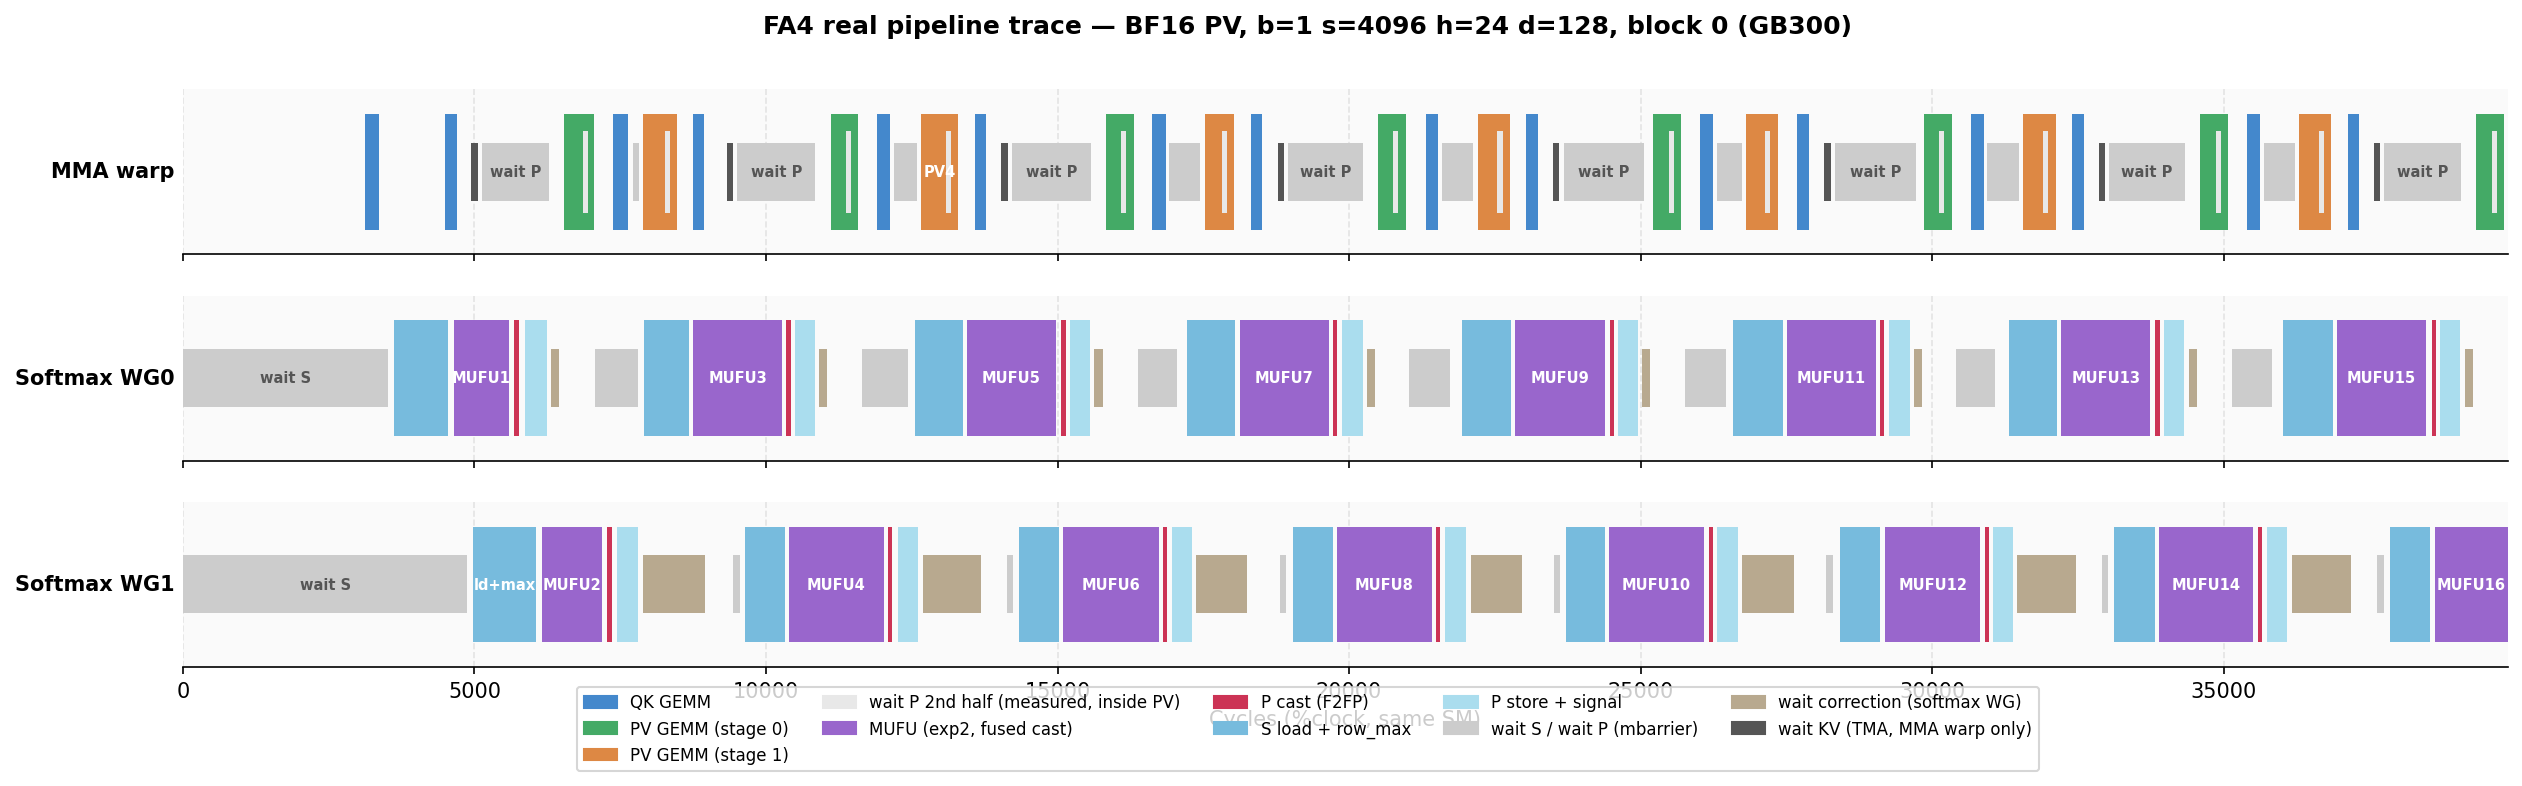
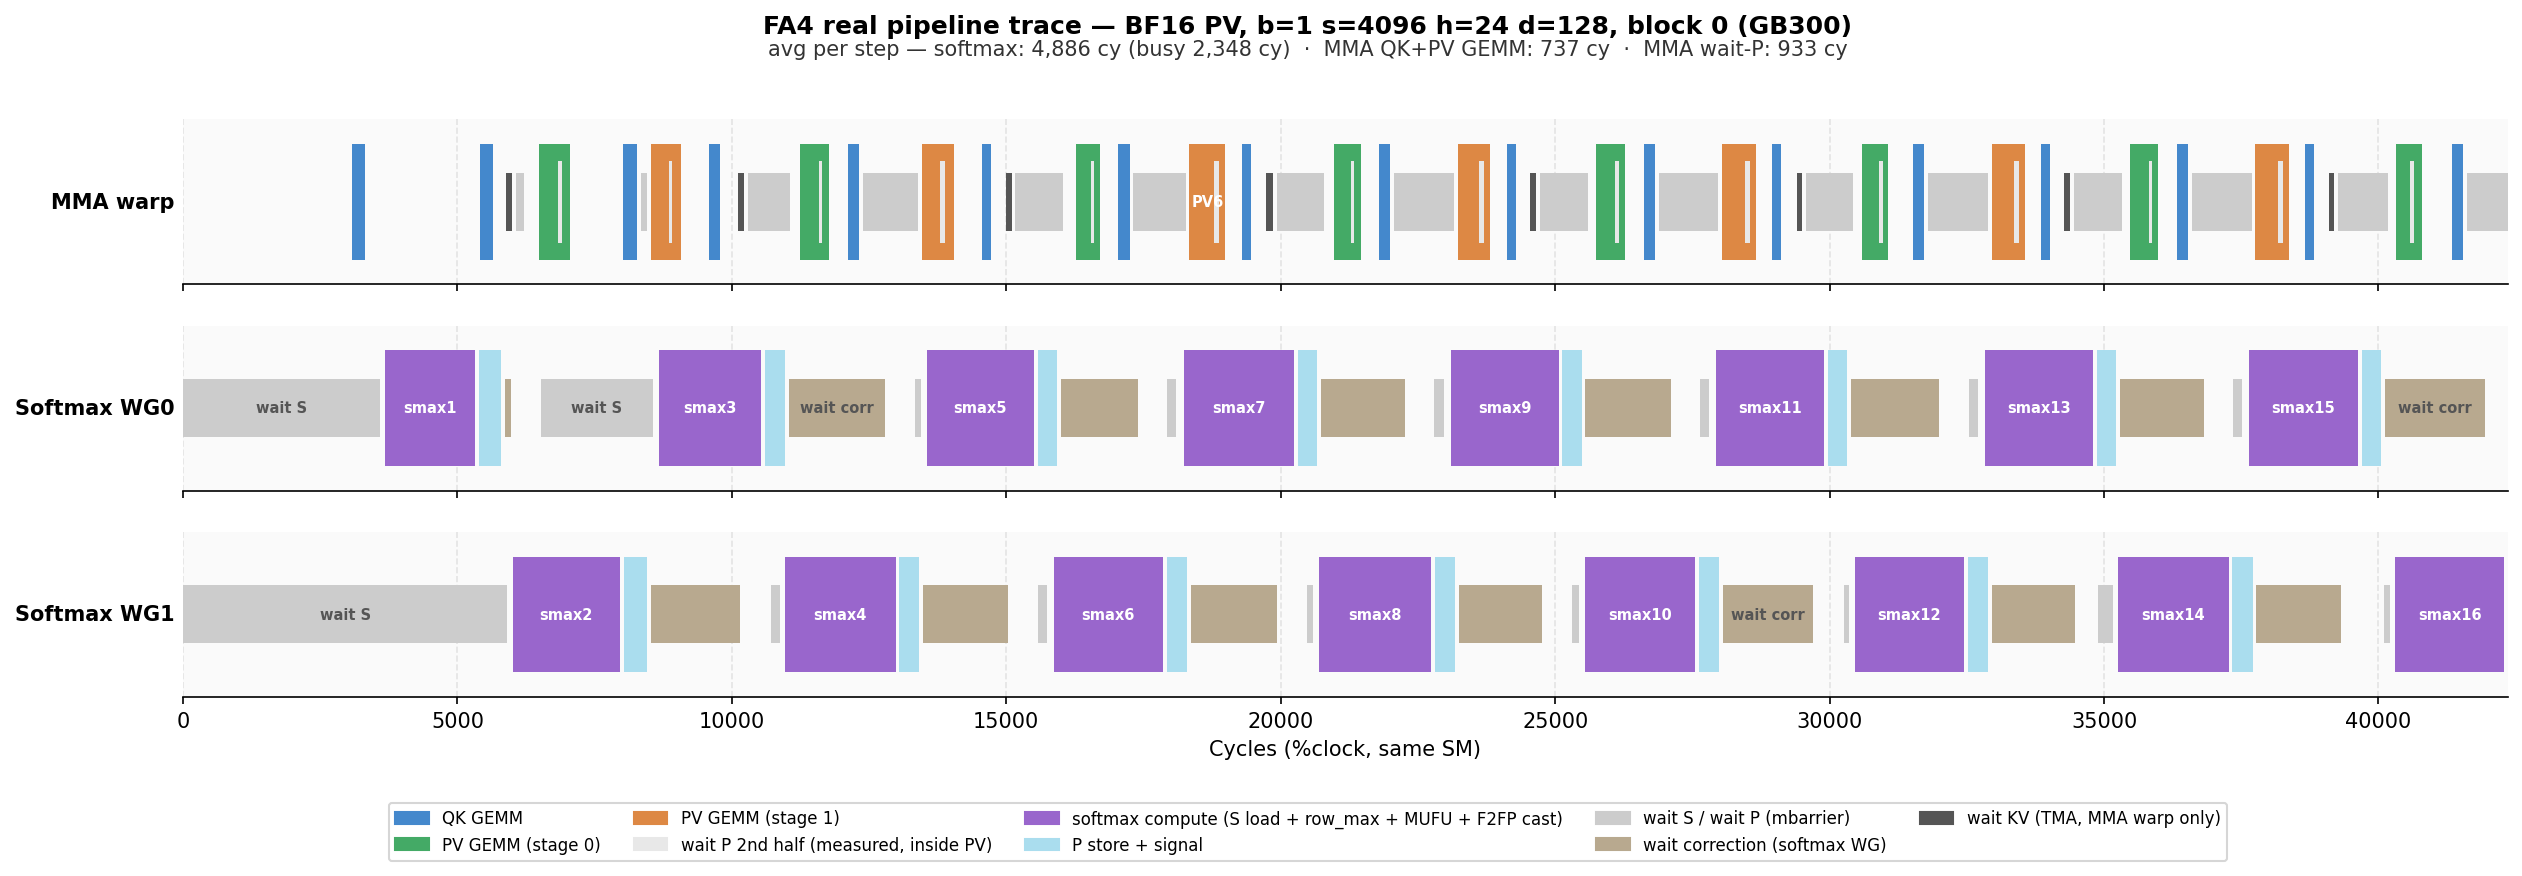
feat: coarse low-perturbation trace mode + avg step-cycles line in figures
The detailed per-phase trace events sit inside the softmax compute stream;
their side-effecting %clock asm blocks ptxas interleaving and inflates
spans ~15% (FP8 window 472K -> 388K cycles coarse). Coarse mode (now the
default) records only at wait/store boundaries that are already
side-effect ordered, drawing one combined softmax-compute span per step;
FA4_PROFILE_DETAIL=1 restores the per-phase breakdown. Cache key includes
the detail flag.

Trace figures get a subtitle line: avg cycles per softmax step (period +
busy) and per MMA QK+PV GEMM pair, plus MMA wait-P. Measured coarse at
s=4096: softmax 4,855/4,001/5,389 cy per step (bf16/fp8/fp4), MMA QK+PV
732/639/622 cy.

diff --git a/flash_attn/cute/flash_fwd_sm100_fp4.py b/flash_attn/cute/flash_fwd_sm100_fp4.py
@@ -308,6 +308,14 @@ class FlashAttentionForwardSm100:
         # P_full signals as early as possible.
         self.fp8_pv_pack_store_pipeline = os.getenv("FA4_FP8_PV_PACK_STORE_PIPELINE", "0") == "1"
         self.fp4_pv_quant_store_pipeline = os.getenv("FA4_FP4_PV_QUANT_STORE_PIPELINE", "0") == "1"
+        # Pipeline-trace granularity (FA4_PROFILE_PIPELINE=1). Coarse (default)
+        # records only at wait/store boundaries that are already side-effect
+        # ordered, so the softmax compute stream contains no timestamps and
+        # ptxas keeps full scheduling freedom — avoiding the artifact where the
+        # profiler's %clock asm acts as a barrier and inflates phase spans.
+        # FA4_PROFILE_DETAIL=1 restores the per-phase (load/exp/quant) events.
+        self.prof_detail = os.getenv("FA4_PROFILE_DETAIL", "0") == "1"
+        self.prof_events_per_step = 12 if self.prof_detail else 8
         self.mma_inst_bits_k = 256
         if self.sf_vec_size == 16:
             # NVFP4 / MXF4NVF4: 256-bit operand tile covers 64 logical K elements.
@@ -3305,7 +3313,7 @@ class FlashAttentionForwardSm100:
         tCtSFP: Optional[cute.Tensor] = None,
         sSFP: Optional[cute.Tensor] = None,
         prof=None,  # (buf, bg_index, stride, tag_base, pred) trace state or None
-        prof_iter=0,  # softmax_step call count (slot base = prof_iter * 12)
+        prof_iter=0,  # softmax_step call count (slot base = prof_iter * events/step)
     ) -> Tuple[cute.Int32, cute.Int32, cute.Int32]:
         """Perform a single step of the softmax computation on a block of attention scores.
 
@@ -3329,16 +3337,17 @@ class FlashAttentionForwardSm100:
         # P size when in FP32
         tScP = cute.composition(tScS, cute.make_layout((self.m_block_size, tilePlikeFP32)))
 
-        # Trace state: 12 events per softmax_step in every PV-mode branch.
+        # Trace state: fixed number of events per softmax_step in every
+        # PV-mode branch (8 coarse / 12 with FA4_PROFILE_DETAIL=1).
         if const_expr(prof is not None):
             prof_buf, prof_bg, prof_stride, prof_tag, prof_pred = prof
-            prof_k = prof_iter * 12
+            prof_k = prof_iter * self.prof_events_per_step
             prof_k = fa4_prof.prof_record(prof_buf, prof_bg, prof_stride, prof_tag, prof_k, fa4_prof.EVT_SOFTMAX_WAIT_S, fa4_prof.EVENT_BEGIN, prof_pred)
         # Wait for Si
         cute.arch.mbarrier_wait(mbar_ptr + self.mbar_S_full_offset + stage, mma_si_consumer_phase)
         if const_expr(prof is not None):
             prof_k = fa4_prof.prof_record(prof_buf, prof_bg, prof_stride, prof_tag, prof_k, fa4_prof.EVT_SOFTMAX_WAIT_S, fa4_prof.EVENT_END, prof_pred)
-            prof_k = fa4_prof.prof_record(prof_buf, prof_bg, prof_stride, prof_tag, prof_k, fa4_prof.EVT_SOFTMAX_ROWMAX, fa4_prof.EVENT_BEGIN, prof_pred)
+            prof_k = fa4_prof.prof_record(prof_buf, prof_bg, prof_stride, prof_tag, prof_k, fa4_prof.EVT_SOFTMAX_ROWMAX if self.prof_detail else fa4_prof.EVT_SOFTMAX_EXP, fa4_prof.EVENT_BEGIN, prof_pred)
         tSrS_t2r = cute.make_fragment(thr_tmem_load.partition_D(tScS).shape, self.qk_acc_dtype)
         cute.copy(thr_tmem_load, tStS_t2r, tSrS_t2r)
         
@@ -3379,7 +3388,7 @@ class FlashAttentionForwardSm100:
         cute.arch.mbarrier_arrive(mbar_ptr + self.mbar_softmax_corr_full_offset + stage)
 
         softmax.scale_subtract_rowmax(tSrS_t2r, row_max)
-        if const_expr(prof is not None):
+        if const_expr(prof is not None and self.prof_detail):
             prof_k = fa4_prof.prof_record(prof_buf, prof_bg, prof_stride, prof_tag, prof_k, fa4_prof.EVT_SOFTMAX_ROWMAX, fa4_prof.EVENT_END, prof_pred)
         # Sequence barrier wait
         if const_expr(self.s0_s1_barrier):
@@ -3399,7 +3408,7 @@ class FlashAttentionForwardSm100:
 
 
         if const_expr(self.quant_pv):
-            if const_expr(prof is not None):
+            if const_expr(prof is not None and self.prof_detail):
                 prof_k = fa4_prof.prof_record(prof_buf, prof_bg, prof_stride, prof_tag, prof_k, fa4_prof.EVT_SOFTMAX_EXP, fa4_prof.EVENT_BEGIN, prof_pred)
             # Exp2 with softmax scale and sp1 scaling
             softmax.apply_exp2_convert(
@@ -3410,7 +3419,7 @@ class FlashAttentionForwardSm100:
             )
             # update_row_sum BEFORE scale_groupwise so it uses original P values
             softmax.update_row_sum(tSrS_t2r.load(), acc_scale, is_first)
-            if const_expr(prof is not None):
+            if const_expr(prof is not None and self.prof_detail):
                 prof_k = fa4_prof.prof_record(prof_buf, prof_bg, prof_stride, prof_tag, prof_k, fa4_prof.EVT_SOFTMAX_EXP, fa4_prof.EVENT_END, prof_pred)
                 prof_k = fa4_prof.prof_record(prof_buf, prof_bg, prof_stride, prof_tag, prof_k, fa4_prof.EVT_SOFTMAX_QUANT, fa4_prof.EVENT_BEGIN, prof_pred)
             if const_expr(self.fp4_pv_quant_store_pipeline and sSFP is not None):
@@ -3452,9 +3461,9 @@ class FlashAttentionForwardSm100:
                 tSrPSF_2d = cute.logical_divide(tSrPSF, cute.make_layout(k_inner))
                 cute.autovec_copy(tSrPSF_2d, sSFP_thread)
             if const_expr(prof is not None):
-                prof_k = fa4_prof.prof_record(prof_buf, prof_bg, prof_stride, prof_tag, prof_k, fa4_prof.EVT_SOFTMAX_QUANT, fa4_prof.EVENT_END, prof_pred)
+                prof_k = fa4_prof.prof_record(prof_buf, prof_bg, prof_stride, prof_tag, prof_k, fa4_prof.EVT_SOFTMAX_QUANT if self.prof_detail else fa4_prof.EVT_SOFTMAX_EXP, fa4_prof.EVENT_END, prof_pred)
         else:
-            if const_expr(prof is not None):
+            if const_expr(prof is not None and self.prof_detail):
                 prof_k = fa4_prof.prof_record(prof_buf, prof_bg, prof_stride, prof_tag, prof_k, fa4_prof.EVT_SOFTMAX_EXP, fa4_prof.EVENT_BEGIN, prof_pred)
             # softmax.scale_apply_exp2_convert(tSrS_t2r, row_max, tSrP_r2t)
             if const_expr(pure_fp8_pv and self.v_dtype == Float8E4M3FN and self.fp8_pv_use_explicit_pack):
@@ -3468,7 +3477,7 @@ class FlashAttentionForwardSm100:
                         e2e=self.force_e2e,
                         e2e_freq=self.e2e_freq,
                     )
-                    if const_expr(prof is not None):
+                    if const_expr(prof is not None and self.prof_detail):
                         prof_k = fa4_prof.prof_record(prof_buf, prof_bg, prof_stride, prof_tag, prof_k, fa4_prof.EVT_SOFTMAX_EXP, fa4_prof.EVENT_END, prof_pred)
                         prof_k = fa4_prof.prof_record(prof_buf, prof_bg, prof_stride, prof_tag, prof_k, fa4_prof.EVT_SOFTMAX_QUANT, fa4_prof.EVENT_BEGIN, prof_pred)
                 else:
@@ -3484,7 +3493,7 @@ class FlashAttentionForwardSm100:
                         )
                     # else: exp2, F2FP pack and TMEM stores are all
                     # software-pipelined per chunk in _pack_fp8_store_pipelined.
-                    if const_expr(prof is not None):
+                    if const_expr(prof is not None and self.prof_detail):
                         prof_k = fa4_prof.prof_record(prof_buf, prof_bg, prof_stride, prof_tag, prof_k, fa4_prof.EVT_SOFTMAX_EXP, fa4_prof.EVENT_END, prof_pred)
                         prof_k = fa4_prof.prof_record(prof_buf, prof_bg, prof_stride, prof_tag, prof_k, fa4_prof.EVT_SOFTMAX_QUANT, fa4_prof.EVENT_BEGIN, prof_pred)
                     if const_expr(not fp8_pipe_active):
@@ -3500,11 +3509,11 @@ class FlashAttentionForwardSm100:
                     e2e_freq=self.e2e_freq,
                     e2e_start_frg=self.e2e_start_frg,
                 )
-                if const_expr(prof is not None):
+                if const_expr(prof is not None and self.prof_detail):
                     prof_k = fa4_prof.prof_record(prof_buf, prof_bg, prof_stride, prof_tag, prof_k, fa4_prof.EVT_SOFTMAX_EXP, fa4_prof.EVENT_END, prof_pred)
                     prof_k = fa4_prof.prof_record(prof_buf, prof_bg, prof_stride, prof_tag, prof_k, fa4_prof.EVT_SOFTMAX_QUANT, fa4_prof.EVENT_BEGIN, prof_pred)
             if const_expr(prof is not None):
-                prof_k = fa4_prof.prof_record(prof_buf, prof_bg, prof_stride, prof_tag, prof_k, fa4_prof.EVT_SOFTMAX_QUANT, fa4_prof.EVENT_END, prof_pred)
+                prof_k = fa4_prof.prof_record(prof_buf, prof_bg, prof_stride, prof_tag, prof_k, fa4_prof.EVT_SOFTMAX_QUANT if self.prof_detail else fa4_prof.EVT_SOFTMAX_EXP, fa4_prof.EVENT_END, prof_pred)
         # Sequence barrier arrive
         if const_expr(self.s0_s1_barrier):
             cute.arch.mbarrier_arrive(mbar_ptr + mbar_s0_s1_sequence_offset + (1 - stage) * 4)

diff --git a/flash_attn/cute/debug/trace_pipeline.py b/flash_attn/cute/debug/trace_pipeline.py
@@ -102,6 +102,43 @@ def summarize(spans_by_bg, block):
             print(f"  {nm:12s} n={cnt:5d} total={tot:9d} cy ({100.0*tot/total_window:5.1f}%) mean={tot/cnt:7.1f} cy")
 
 
+def step_stats(spans_by_bg, block):
+    """Average cycles of one softmax step and one MMA step (QK+PV) at block.
+
+    Softmax step = median gap between consecutive wait-S starts (per WG,
+    averaged over both WGs); its busy part = mean per-step non-wait time.
+    MMA step (QK+PV) = mean QK span + mean PV span (one stage's GEMM pair;
+    the PV span includes the embedded P2 wait). MMA wait-P = mean stall
+    before each PV.
+    """
+    import statistics
+
+    sm_periods, sm_busys = [], []
+    for grp in (fa4_prof.GRP_SOFTMAX0, fa4_prof.GRP_SOFTMAX1):
+        spans = spans_by_bg.get((block, grp), [])
+        starts = [s["start"] for s in spans if s["event_idx"] == fa4_prof.EVT_SOFTMAX_WAIT_S]
+        if len(starts) > 1:
+            sm_periods.append(statistics.median(
+                b - a for a, b in zip(starts, starts[1:])
+            ))
+        waits = (fa4_prof.EVT_SOFTMAX_WAIT_S, fa4_prof.EVT_SOFTMAX_WAIT_CORR)
+        busy = sum(s["end"] - s["start"] for s in spans if s["event_idx"] not in waits)
+        if starts:
+            sm_busys.append(busy / len(starts))
+
+    mma = spans_by_bg.get((block, fa4_prof.GRP_MMA), [])
+    def _mean(evt):
+        d = [s["end"] - s["start"] for s in mma if s["event_idx"] == evt]
+        return sum(d) / len(d) if d else 0.0
+
+    return {
+        "softmax_period": sum(sm_periods) / len(sm_periods) if sm_periods else 0.0,
+        "softmax_busy": sum(sm_busys) / len(sm_busys) if sm_busys else 0.0,
+        "mma_qk_pv": _mean(fa4_prof.EVT_QK_GEMM) + _mean(fa4_prof.EVT_PV_GEMM),
+        "mma_wait_p": _mean(fa4_prof.EVT_MMA_WAIT_P),
+    }
+
+
 def render(spans_by_bg, block, output_path, title, start_iter, num_iters,
            pv_mode="bf16"):
     rows = [
@@ -113,6 +150,13 @@ def render(spans_by_bg, block, output_path, title, start_iter, num_iters,
     # real quantization (group_max + scale + E2M1 pack).
     quant_label = "quant" if pv_mode == "fp4" else "F2FP"
     quant_legend = "P quant (FP4)" if pv_mode == "fp4" else "P cast (F2FP)"
+    # Coarse traces (default) have no per-phase events: EVT_SOFTMAX_EXP is one
+    # combined compute span. Detect by the absence of ROWMAX spans.
+    detail = any(
+        s["event_idx"] == fa4_prof.EVT_SOFTMAX_ROWMAX
+        for g in (fa4_prof.GRP_SOFTMAX0, fa4_prof.GRP_SOFTMAX1)
+        for s in spans_by_bg.get((block, g), [])
+    )
 
     # Pick a steady-state window: bounded by the start of softmax WG0's
     # (start_iter)-th and (start_iter+num_iters)-th wait-S span.
@@ -172,6 +216,9 @@ def render(spans_by_bg, block, output_path, title, start_iter, num_iters,
                 # WG0 -> odd PVs, WG1 -> even PVs.
                 if evt == fa4_prof.EVT_SOFTMAX_QUANT:
                     label = quant_label
+                elif not detail:
+                    # Coarse trace: one combined compute span per step.
+                    label = "smax"
                 n = counters[evt]
                 glob = 2 * (n - 1) + (1 if grp == fa4_prof.GRP_SOFTMAX0 else 2)
                 label = f"{label}{glob}"
@@ -205,24 +252,44 @@ def render(spans_by_bg, block, output_path, title, start_iter, num_iters,
         ax.set_xlim(0, w1 - w0)
 
     axes[-1].set_xlabel("Cycles (%clock, same SM)")
-    fig.suptitle(title, fontsize=12, fontweight="bold")
+    fig.suptitle(title, fontsize=12, fontweight="bold", y=1.02)
 
-    mufu_legend = "MUFU (exp2)" if pv_mode == "fp4" else "MUFU (exp2, fused cast)"
+    # Average step costs measured over the whole trace (not just the window).
+    st = step_stats(spans_by_bg, block)
+    fig.text(
+        0.5, 0.965,
+        f"avg per step — softmax: {st['softmax_period']:,.0f} cy "
+        f"(busy {st['softmax_busy']:,.0f} cy)  ·  "
+        f"MMA QK+PV GEMM: {st['mma_qk_pv']:,.0f} cy  ·  "
+        f"MMA wait-P: {st['mma_wait_p']:,.0f} cy",
+        ha="center", fontsize=10, color="#333333",
+    )
+
+    if detail:
+        sm_legend = [
+            mpatches.Patch(color="#9966CC", label="MUFU (exp2)" if pv_mode == "fp4" else "MUFU (exp2, fused cast)"),
+            mpatches.Patch(color="#CC3355", label=quant_legend),
+            mpatches.Patch(color="#77BBDD", label="S load + row_max"),
+        ]
+    else:
+        sm_legend = [
+            mpatches.Patch(color="#9966CC",
+                           label="softmax compute (S load + row_max + MUFU + "
+                                 + ("quant" if pv_mode == "fp4" else "F2FP cast") + ")"),
+        ]
     legend = [
         mpatches.Patch(color="#4488CC", label="QK GEMM"),
         mpatches.Patch(color="#44AA66", label="PV GEMM (stage 0)"),
         mpatches.Patch(color="#DD8844", label="PV GEMM (stage 1)"),
         mpatches.Patch(color="#E8E8E8", label="wait P 2nd half (measured, inside PV)"),
-        mpatches.Patch(color="#9966CC", label=mufu_legend),
-        mpatches.Patch(color="#CC3355", label=quant_legend),
-        mpatches.Patch(color="#77BBDD", label="S load + row_max"),
+        *sm_legend,
         mpatches.Patch(color="#AADDEE", label="P store + signal"),
         mpatches.Patch(color="#CCCCCC", label="wait S / wait P (mbarrier)"),
         mpatches.Patch(color="#B8A98F", label="wait correction (softmax WG)"),
         mpatches.Patch(color="#555555", label="wait KV (TMA, MMA warp only)"),
     ]
     fig.legend(handles=legend, loc="lower center", ncol=5, fontsize=8,
-               bbox_to_anchor=(0.5, -0.04))
+               bbox_to_anchor=(0.5, -0.12))
 
     fig.savefig(output_path, dpi=150, bbox_inches="tight", facecolor="white")
     plt.close(fig)

diff --git a/flash_attn/cute/interface.py b/flash_attn/cute/interface.py
@@ -666,8 +666,9 @@ def _flash_attn_fwd(
                            # reused the kernel compiled for the first.
         local,
         # In-kernel pipeline trace (flash_attn/cute/profiler.py): instrumented
-        # and clean kernels must not share a cache slot.
+        # and clean kernels must not share a cache slot, nor coarse vs detail.
         os.environ.get("FA4_PROFILE_PIPELINE", "0") == "1",
+        os.environ.get("FA4_PROFILE_DETAIL", "0") == "1",
     )
     fp4_qk = use_fp4 and not is_cute_q
     # FP4 V also needs the make_ptr path: dlpack reports half-headdim shape for

diff --git a/flash_attn/cute/debug/b300_fp4_pv_analysis.md b/flash_attn/cute/debug/b300_fp4_pv_analysis.md
@@ -110,6 +110,26 @@ One elected lane per warpgroup records `%clock` cycles at every pipeline
 event into a gmem buffer. Run `flash_attn/cute/debug/trace_pipeline.py`
 to capture and render a trace (3 rows: MMA warp, Softmax WG0, Softmax WG1).
 
+Two granularities (see the instrumentation-artifact warning below):
+- **Coarse (default)**: events only at wait/store boundaries that are already
+  side-effect ordered — the softmax compute stream contains no timestamps, so
+  ptxas keeps full scheduling freedom and the per-step numbers are close to
+  the clean kernel (e.g. FP8: 96-iteration window 388K cycles coarse vs 472K
+  with detailed events vs ~identical clean TFLOPS). One combined "softmax
+  compute" span per step.
+- **Detailed (`FA4_PROFILE_DETAIL=1`)**: per-phase load/exp/quant spans;
+  phase boundaries inhibit compiler interleaving and inflate spans ~15%.
+
+Average step costs, coarse mode, block 0, b=1 s=4096 h=24 d=128 (the trace
+figures show this line under the title):
+
+| Per step (cycles)            | BF16 PV | FP8 PV | FP4 PV |
+|------------------------------|---------|--------|--------|
+| softmax step period          | 4,855   | 4,001  | 5,389  |
+| softmax step busy            | 2,352   | 2,288  | 3,469  |
+| MMA QK+PV GEMM (one stage)  | 732     | 639    | 622    |
+| MMA wait-P (per PV)          | 933     | 595    | 1,171  |
+
 Measured means per event, block 0, b=1 s=4096 h=24 d=128 (96 softmax
 iterations per WG, GB300 at 2070 MHz; cycles from %clock):
 
